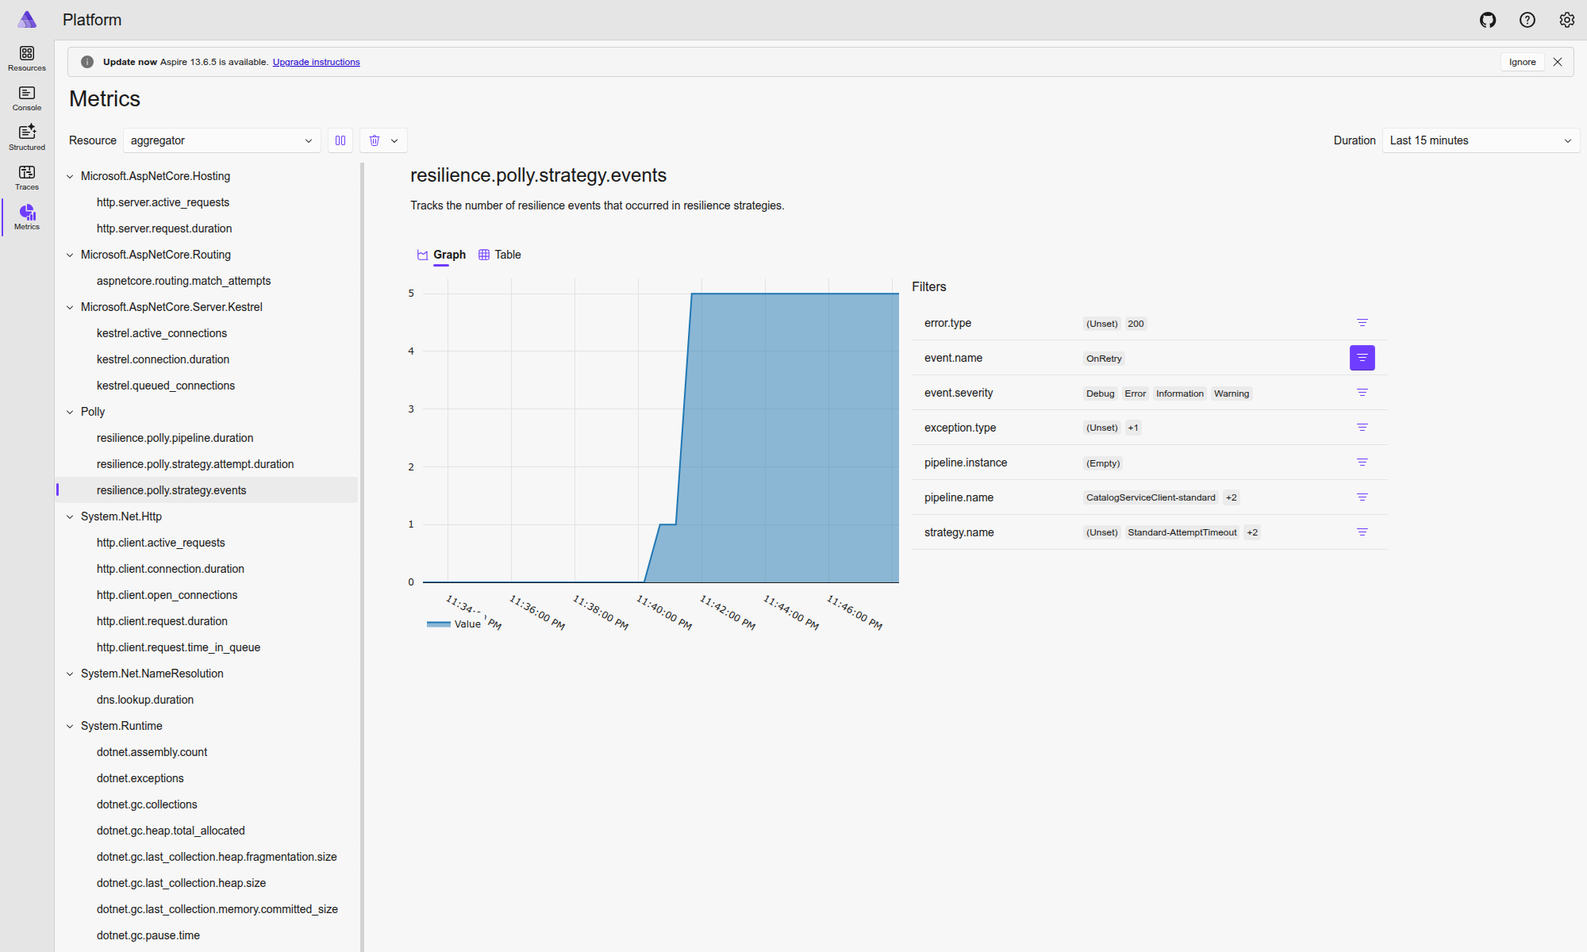
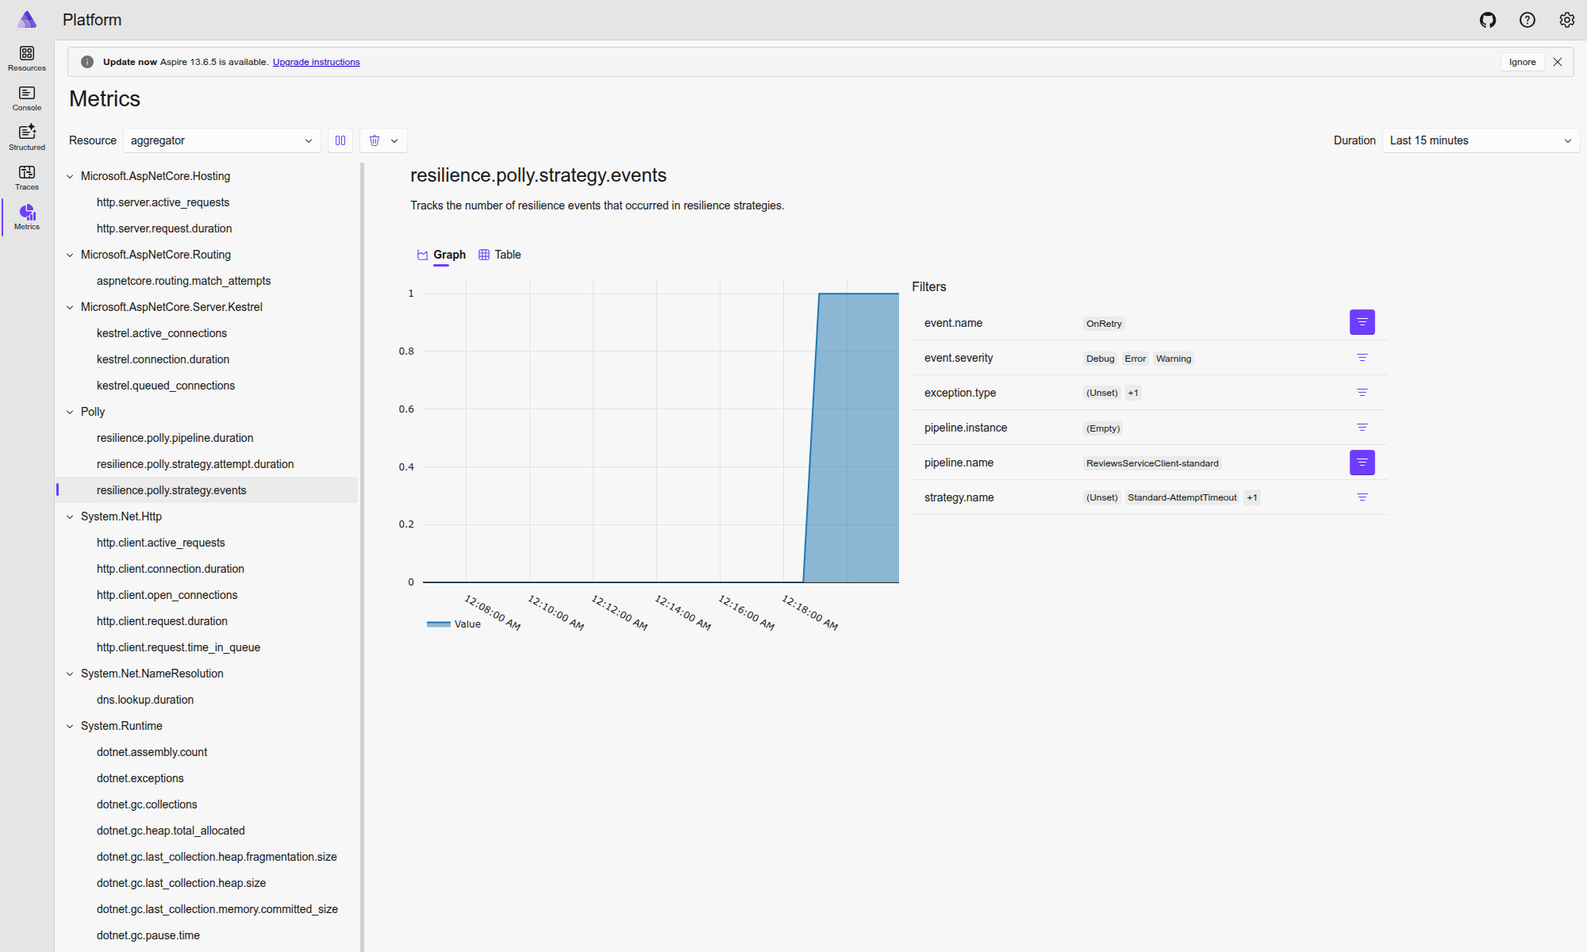
docs(lab-07): add criteria map and refresh evidence

diff --git a/docs/lab-07/criteria.md b/docs/lab-07/criteria.md
@@ -1,0 +1,239 @@
+# Лаб. 07: карта критеріїв і доказів
+
+Цей документ фіксує, де саме в репозиторії реалізований кожен критерій Лаб. 07 і чим його підтвердити. Шляхи вказані від кореня репозиторію. Символи й методи стабільніші за номери рядків.
+
+## Швидка перевірка
+
+```bash
+dotnet build Platform.slnx --nologo
+dotnet test Services/Reviews/Reviews.Domain.Tests --nologo
+```
+
+Очікування: 0 помилок, 0 попереджень, 5/5 тестів.
+
+## Критерії
+
+### 1. Standard Resilience Handler для всіх клієнтів без нашарування
+
+Де:
+
+- `Platform.ServiceDefaults/Extensions.cs`, `AddServiceDefaults`, блок `ConfigureHttpClientDefaults`:
+  - `http.AddStandardResilienceHandler(...)`;
+  - таймаути 30 с / 10 с;
+  - `Retry.DisableForUnsafeHttpMethods()`.
+- `Platform.Aggregator/Resilience/GrpcResilience.cs`, `Configure`:
+  - `client.RemoveAllResilienceHandlers()`;
+  - потім один `AddStandardResilienceHandler(...)`.
+- `Platform.Aggregator/Program.cs`: для трьох бізнес-клієнтів викликається `GrpcResilience.ConfigureEnrollments`, `ConfigureCatalog`, `ConfigureReviews`.
+
+Чому не подвійний handler: глобальний handler додається через `ConfigureHttpClientDefaults`, а для клієнтів Aggregator його спочатку знімають `RemoveAllResilienceHandlers`. Другий `AddStandardResilienceHandler` не нашаровується.
+
+### 2. Retry-політика gRPC-клієнтів за gRPC-статусами
+
+Де:
+
+- `Platform.Aggregator/Resilience/GrpcResilience.cs`, `BuildServiceConfig`, `EnrollmentsChannel`, `CatalogChannel`, `ReviewsChannel`.
+- `Platform.Aggregator/Program.cs`, `.ConfigureChannel(channel => channel.ServiceConfig = ...)`.
+
+Що є:
+
+- `ServiceConfig` з `MethodConfig` і `RetryPolicy`;
+- `MaxAttempts` 3/4/2 для Enrollments/Catalog/Reviews;
+- `InitialBackoff` 0.5 с, `MaxBackoff` 1–2 с, `BackoffMultiplier` 2;
+- `RetryableStatusCodes`: `Unavailable`, для Catalog також `ResourceExhausted`.
+
+### 3. Налаштовані retry, circuit breaker і таймаути
+
+Де:
+
+- `Platform.Aggregator/Resilience/GrpcResilience.cs`, записи `Enrollments`, `Catalog`, `Reviews`.
+- `Platform.Aggregator/Resilience/ResilienceLogger.cs`.
+- `Platform.ServiceDefaults/Extensions.cs`, `Retry.DisableForUnsafeHttpMethods`.
+- `Platform.Aggregator/Services/EnrollmentAggregator.cs`, константи `EnrollmentsTimeout`, `CatalogTimeout`, `ReviewsTimeout`, метод `CreateCallOptions`.
+
+Що є:
+
+- exponential backoff з jitter;
+- `FailureRatio`, `MinimumThroughput`, `SamplingDuration`, `BreakDuration`;
+- `OnOpened` = Error, `OnClosed` = Information, `OnHalfOpened` = Warning;
+- таймаути узгоджені: `AttemptTimeout × (MaxRetryAttempts + 1) + затримки` не перевищує `TotalTimeout`, а gRPC-дедлайн не менший за бюджет повторів.
+
+Поточні значення:
+
+| Клієнт | HTTP retry | Attempt / Total | gRPC deadline | gRPC retry |
+| --- | --- | --- | --- | --- |
+| Enrollments | 2 | 5 с / 20 с | 17 с | 3 спроби |
+| Catalog | 2 | 6 с / 25 с | 20 с | 4 спроби |
+| Reviews | 1 | 2 с / 6 с | 5 с | 2 спроби |
+
+### 4. Різні політики для критичних і некритичних сервісів з обґрунтуванням
+
+Де:
+
+- `Platform.Aggregator/Resilience/GrpcResilience.cs`, три різні `ResilienceProfile`.
+- `README.md`, розділ «Резильєнтність, метрики та health checks (Лаб. 07)», таблиця політик.
+
+Обґрунтування в README:
+
+- Catalog і Enrollments критичні: без них картка запису неповна, тому більше спроб і чутливіший breaker;
+- Reviews некритичний: Aggregator повертає часткову відповідь, тому менше спроб, коротші таймаути, вищий поріг breaker.
+
+### 5. Graceful degradation кешу Redis
+
+Де:
+
+- `Services/Catalog/Catalog.Bll/Caching/TwoLevelCache.cs`, `GetOrCreateAsync` і `InvalidateAsync`: `try/catch` навколо `IDistributedCache`, лог Warning, далі читання з фабрики (БД).
+- `Platform.Aggregator/Services/EnrollmentAggregator.cs`, `TryGetAsync` і `TrySetAsync`: збій Redis не провалює запит.
+
+Перевірка: зупинити `redis`, виконати `GET /api/courses/102`, отримати 200 з SQL. `/health/ready` Catalog показує `Degraded`, не 503.
+
+### 6. Клас бізнес-метрик з лічильниками через IMeterFactory
+
+Де:
+
+- `Services/Enrollments/Enrollments.Api/Metrics/EnrollmentMetrics.cs`, `EnrollmentMetrics`, `MeterName = "Enrollments.Api"`.
+- `Services/Catalog/Catalog.Api/Metrics/CatalogMetrics.cs`, `CatalogMetrics`, `MeterName = "Catalog.Api"`.
+- `Services/Reviews/Reviews.WebApi/Metrics/ReviewMetrics.cs`, `ReviewMetrics`, `MeterName = "Reviews.WebApi"`.
+- `Services/*/Program.cs`: `AddSingleton<...Metrics>()`.
+- `Platform.ServiceDefaults/Extensions.cs`, `ConfigureOpenTelemetry`:
+  `.AddMeter("Catalog.Cache", "Enrollments.Api", "Catalog.Api", "Reviews.WebApi", "Polly")`.
+
+Лічильники:
+
+- `enrollments.created` (`status`), `enrollments.confirmed` (`status`), `enrollments.cancelled` (`status`);
+- `catalog.courses.created` (`has.detail`, `category.bucket`), `catalog.courses.price_updated` (`price.band`), `catalog.courses.deleted` (`source`);
+- `reviews.created` (`rating`), `reviews.updated` (`rating`), `reviews.deleted` (`source`).
+
+### 7. Гістограми тривалості та gauge-метрики з низькою кардинальністю
+
+Де:
+
+- `Metrics`-класи трьох сервісів, методи `RecordDuration` і `CreateObservableGauge`.
+- Контролери: `EnrollmentsController`, `CoursesController`, `ReviewsController`. Гістограма пишеться в `finally`, тому фіксується і `success`, і `failure`.
+- Фонові poller-и: `EnrollmentMetricsPoller`, `CatalogMetricsPoller`, `ReviewMetricsPoller`, період 15 с.
+
+Gauge:
+
+- `enrollments.awaiting_validation`;
+- `catalog.courses.total`;
+- `reviews.total`.
+
+Тегів з `studentId`, `courseId`, `reviewId` немає. Це перевіряється пошуком по `Metrics/`.
+
+### 8. Health checks SQL Server і MongoDB з іменами, тегами й таймаутом
+
+Де:
+
+- `Services/Enrollments/Enrollments.Api/Program.cs`: `AddSqlServer`, name `enrollments-db`, tags `database`, `sql`, `ready`, `startup`, timeout 5 с.
+- `Services/Catalog/Catalog.Api/Program.cs`: `AddSqlServer`, name `catalog-db`, ті самі теги, timeout 5 с.
+- `Services/Reviews/Reviews.WebApi/Program.cs`: `AddMongoDb`, name `reviews-db`, tags `database`, `mongodb`, `ready`, `startup`, timeout 5 с.
+
+`AddSqlServer` виконує `SELECT 1`, `AddMongoDb` виконує `ping` через зареєстрований `IMongoClient`.
+
+### 9. Health check Redis зі статусом Degraded
+
+Де:
+
+- `Services/Catalog/Catalog.Api/Program.cs`: `AddRedis`, name `redis-cache`, `failureStatus: HealthStatus.Degraded`, tags `cache`, `redis`, `ready`, timeout 3 с.
+- `Platform.Aggregator/Program.cs`: та сама перевірка.
+- `AddRedisDistributedCache("redis", settings => settings.DisableHealthChecks = true)` вимикає дубль автоматичної перевірки Aspire.
+
+Перевірка: зупинити `redis`, `/health/ready` Catalog = 200 зі статусом `Degraded`, `redis-cache` = `Degraded`.
+
+### 10. gRPC Health Checking Protocol і перевірка залежностей в Aggregator
+
+Де:
+
+- `Services/Enrollments/Enrollments.Api/Program.cs`, `Services/Catalog/Catalog.Api/Program.cs`, `Services/Reviews/Reviews.WebApi/Program.cs`:
+  - `AddGrpcHealthChecks(options => options.Services.Map("", registration => registration.Tags.Contains("ready") && !registration.Tags.Contains("cache")))`;
+  - `MapGrpcHealthChecksService()`.
+- `Platform.Aggregator/HealthChecks/DownstreamGrpcHealthCheck.cs`:
+  - `GrpcClientFactory.CreateClient<Health.HealthClient>(ClientName)`;
+  - `CheckAsync` з дедлайном 2 с;
+  - `RpcException` → `Unhealthy`.
+- `Platform.Aggregator/Program.cs`: три health-клієнти `enrollments-health`, `catalog-health`, `reviews-health`; для них `RemoveAllResilienceHandlers`, щоб перевірка падала швидко.
+- `reviews-api` має `failureStatus: HealthStatus.Degraded`, бо Reviews некритичний.
+
+Чому Redis виключений з gRPC health: предикат `!registration.Tags.Contains("cache")`. Тому Degraded Redis не робить Catalog `NotServing`.
+
+### 11. Розділені liveness і readiness endpoints з деталями
+
+Де:
+
+- `Platform.ServiceDefaults/Extensions.cs`, `MapDefaultEndpoints` і `WriteHealthResponse`.
+- `Platform.ServiceDefaults/Extensions.cs`, `AddDefaultHealthChecks`: `self` з тегом `live`.
+
+Endpoints:
+
+- `/health/live`: тільки `live`, без зовнішніх залежностей;
+- `/health/ready`: тільки `ready`, JSON з `status`, `totalDurationMs`, `checks[]`;
+- `/health/startup`: тільки `startup`;
+- `/health`: усі перевірки;
+- `/alive`: аліас liveness.
+
+Усі мапляться в усіх середовищах, не лише Development. У Development `checks[].exception` містить текст винятку; поза Development поле `exception` = `null`.
+
+Перевірено окремим запуском Catalog.Api з `ASPNETCORE_ENVIRONMENT=Production` і недоступним Redis: `/health/ready` повернув `Degraded`, а `exception` для `redis-cache` був `null`.
+
+### 12. AppHost показує стан ресурсів через WithHttpHealthCheck
+
+Де: `Platform.AppHost/Program.cs`.
+
+- `WithHttpHealthCheck("/health", endpointName: "http")` для enrollments, catalog, reviews, aggregator, gateway.
+- `WaitFor` залишений лише для критичних залежностей: БД, Enrollments, Catalog.
+- Redis і Reviews підключені через `WithReference` без `WaitFor`, тому їх недоступність на старті не блокує сервіси.
+- Gateway не має `WaitFor`, тому стартує незалежно від бекендів.
+
+## Runtime-докази
+
+Порти динамічні. `<catalog-url>`, `<reviews-url>`, `<enrollments-url>`, `<aggregator-url>` беруться з Dashboard.
+
+```bash
+curl -i '<catalog-url>/health/live'
+curl -i '<catalog-url>/health/ready'
+curl -i '<catalog-url>/health/startup'
+
+curl -s 'http://localhost:5000/api/aggregator/enrollments/1/full'
+```
+
+Очікування:
+
+- `/health/live` = 200;
+- `/health/ready` = 200, JSON з `catalog-db` і `redis-cache`;
+- `GET /health/ready` при зупиненому Redis = 200, `status: Degraded`;
+- `GET /health/ready` при зупиненому SQL = 503;
+- Aggregator при зупиненому Reviews = 200 з `warnings`, у логах `OnRetry`;
+- після серії збоїв Aggregator відповідає за 10–20 мс, у логах `Circuit opened`, `Circuit half-opened`, `Circuit closed`.
+
+Знімки:
+
+- `docs/lab-07/onretry-metric.png`;
+- `docs/lab-07/circuit-opened.png`;
+- `docs/lab-07/circuit-opened-metric.png`;
+- `docs/lab-07/business-metrics.png`;
+- `docs/lab-07/health-ready-degraded.png`;
+- `docs/lab-07/resources-health.png`;
+- `docs/lab-07/resources-health-details.png`.
+
+Повні команди: `docs/lab-07/manual-checks.md`.
+
+## Рішення, які не є дефектами
+
+1. Health-клієнти Aggregator не мають resilience. Це навмисно: перевірка має завершуватися за 2 с, а не повторюватися.
+2. gRPC health не включає Redis. Кеш необов'язковий, тому Degraded Redis не повинен робити сервіс `NotServing`.
+3. Redis health check має `Degraded`, а не `Unhealthy`. Це вимога graceful degradation.
+4. `reviews-api` в Aggregator має `Degraded`, бо Reviews некритичний. Catalog і Enrollments залишаються `Unhealthy`.
+5. Health endpoints відкриті поза Development. Це вимога лабораторної; текст винятків поза Development прихований.
+6. `WaitFor` не стоїть на Redis, Reviews і Gateway. Це свідоме рішення для resilience: необов'язкові залежності не блокують старт.
+7. `MinimumThroughput` 10/5 і `SamplingDuration` 30 с підібрані під малий трафік навчального стенду.
+8. Gauge оновлюється раз на 15 с. Це компроміс між навантаженням на БД і актуальністю; для лабораторного стенду достатньо.
+
+## Додаткові зміни в межах ЛР7
+
+- `Platform.ApiGateway/Program.cs`: доступ до `IReverseProxyFeature` через `context.Features.Get<IReverseProxyFeature>()`. Попередній `GetReverseProxyFeature()` кидав виняток на `/health`, бо health-запит не проходить через YARP.
+- `Services/Reviews/Reviews.Infrastructure/HealthChecks/MongoHealthCheck.cs` видалений, замість нього в `Reviews.WebApi/Program.cs` зареєстрований `AddMongoDb`. Функціональність перевірки MongoDB збережена, з'явилися ім'я, теги й таймаут.
+
+## Обмеження
+
+- Окремих unit-тестів для resilience, метрик і health checks немає. Вони перевіряються живим прогоном за `manual-checks.md`.
+- Скріншот Resources у Dashboard 9.5 показує `Running`, а не `Healthy`; статус health підтверджується `/health` і карткою ресурсу.

diff --git a/docs/lab-07/manual-checks.md b/docs/lab-07/manual-checks.md
@@ -7,7 +7,9 @@ dotnet user-secrets set "Parameters:sql-password" "Pass@word1" --project Platfor
 dotnet run --project Platform.AppHost
 ```
 
-У Dashboard має бути 12 ресурсів: `sql`, `mongo`, `redis`, `enrollments-api`, `catalog-api`, `reviews-api`, `aggregator`, `gateway` і `aspire-dashboard`. Кожен проєкт має статус Healthy, бо в AppHost доданий `WithHttpHealthCheck("/health")`.
+У Dashboard має бути 12 ресурсів: `sql`, `CatalogDb`, `EnrollmentsDb`, `mongo`, `ReviewsMongo`, `redis`, `sql-password`, `enrollments-api`, `catalog-api`, `reviews-api`, `aggregator`, `gateway`. Кожен проєкт має `WithHttpHealthCheck("/health")`. Dashboard 9.5 у колонці State показує `Running`, а статус health видно в картці ресурсу та у відповіді `/health`; `WaitFor` чекає лише критичні залежності.
+
+Детальна карта критеріїв: `docs/lab-07/criteria.md`.
 
 Порти мікросервісів динамічні. Далі `<catalog-url>`, `<reviews-url>`, `<enrollments-url>` означають HTTP-адресу відповідного ресурсу з вкладки Resources.
 
@@ -26,7 +28,6 @@ curl -i '<catalog-url>/health/startup'
   "status": "Healthy",
   "totalDurationMs": 12.34,
   "checks": [
-    { "name": "self", "status": "Healthy" },
     { "name": "catalog-db", "status": "Healthy" },
     { "name": "redis-cache", "status": "Healthy" }
   ]
@@ -75,22 +76,22 @@ curl -i '<catalog-url>/health/ready'
 curl -s 'http://localhost:5000/api/aggregator/enrollments/1/full'
 ```
 
-4. Очікування: 200, `enrollment` і `courses` заповнені, `reviews` порожній, `warnings` містить `reviews-api is unavailable`. У Structured logs є `OnRetry` з категорії `Polly` і gRPC-повтори; у Metrics - `resilience.polly.strategy.events` з `event.name = OnRetry`.
+4. Очікування: 200, `enrollment` і `courses` заповнені, `reviews` порожній, `warnings` містить `reviews-api is unavailable`. Перші запити після зупинки тривають до 5 с, поки спрацьовують повтори. У Structured logs є `OnRetry` з категорії `Polly` і gRPC-повтори; у Metrics - `resilience.polly.strategy.events` з `event.name = OnRetry` і `pipeline.name = ReviewsServiceClient-standard`.
 5. Запустіть `reviews-api`; наступний запит повертає відгуки без `warnings`.
 
 ## Circuit breaker
 
 1. Зупиніть `reviews-api`.
-2. Виконайте 10–15 запитів до Aggregator у межах 30 с:
+2. Виконайте 6–8 запитів до Aggregator:
 
 ```bash
-for i in $(seq 1 15); do
+for i in $(seq 1 8); do
   curl -s -o /dev/null -w '%{http_code} %{time_total}\n' \
     'http://localhost:5000/api/aggregator/enrollments/1/full'
 done
 ```
 
-3. Очікування: спочатку запити повільні через повтори, після `MinimumThroughput` breaker розмикається. У логах `Aggregator.Resilience` є `Circuit opened for 00:00:05`, у Metrics - `event.name = OnCircuitOpened`, наступні запити відхиляються миттєво.
+3. Очікування: перші 3–4 запити повільні через повтори, після `MinimumThroughput` breaker розмикається. У логах `Aggregator.Resilience` є `Circuit opened for 00:00:05`, у Metrics - `event.name = OnCircuitOpened`, наступні запити відхиляються за 10–20 мс.
 4. Запустіть `reviews-api`; після `BreakDuration` (5 с) з'являється `OnHalfOpened`, потім `OnCircuitClosed`, відповіді знову містять відгуки.
 
 ## Бізнес-метрики
@@ -129,11 +130,13 @@ curl -s -X PUT 'http://localhost:5000/api/courses/101/price' \
 
 ## Знімки для здачі
 
-- `onretry-metric.png`: Metrics, `resilience.polly.strategy.events`, фільтр `event.name = OnRetry`.
-- `circuit-opened.png`: Structured logs з `Circuit opened` і метрика `OnCircuitOpened`.
+- `onretry-metric.png`: Metrics, `resilience.polly.strategy.events`, фільтри `event.name = OnRetry` і `pipeline.name = ReviewsServiceClient-standard`.
+- `circuit-opened.png`: Structured logs з `Circuit opened`.
+- `circuit-opened-metric.png`: Metrics, `resilience.polly.strategy.events`, фільтр `event.name = OnCircuitOpened`.
 - `business-metrics.png`: `enrollments.created` або `reviews.created` з тегами.
 - `health-ready-degraded.png`: `/health/ready` Catalog зі статусом `Degraded` при зупиненому Redis.
-- `resources-health.png`: Resources зі статусами всіх ресурсів.
+- `resources-health.png`: Resources зі всіма 12 ресурсами. Dashboard 9.5 показує `Running`; статус health підтверджується `/health` і карткою ресурсу.
+- `resources-health-details.png`: картка `catalog-api` з `Health state: Healthy` і перевіркою `catalog-api_http_/health_200_check`.
 
 ## Очікувані логи
 
